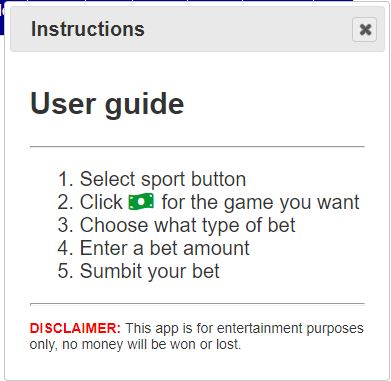
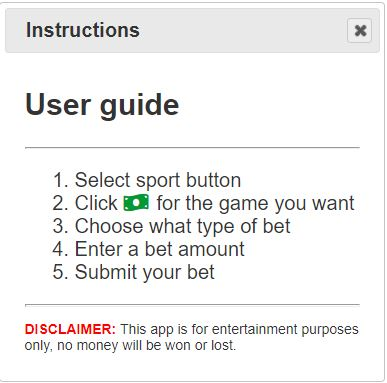
Updated Read Me

diff --git a/index.html b/index.html
@@ -148,7 +148,7 @@
         </li>
         <li>Choose what type of bet</li>
         <li>Enter a bet amount</li>
-        <li>Sumbit your bet</li>
+        <li>Submit your bet</li>
       </ol>
       <hr />
       <p class="disclaimer">

diff --git a/README.md b/README.md
@@ -2,6 +2,12 @@
 
 ![homepage](assets/images/sports-header.jpg)
 
+**Description**
+
+ Sports Bets app is intended to be used for individuals interested in gambling. This is a safe application, free that allows users to practice live Gambling using “fake” money.
+
+ The motivation behind this app came from the increase of states allowing sports gambling. Besides that, all the devs on the application had some prior experience placing sports bets.
+
 ## 1⃣ Tasks
 
 ---
@@ -30,6 +36,20 @@ As a Sports fan I WANT an application that can provide sports gambling simulatio
 - WHEN I click on a save button
 - THEN my bet options are saved to local storage
 - WHEN I click to view the history, my previous bets are displayed
+
+
+**Technologies Used**
+```
+- Javascript
+- HTML
+- CSS
+- Pure CSS (Framework)
+- Moment (Date/Time Formatting)
+- JQueryUI (Modals)
+- Rapid API (Standings)
+- api-sports (Game odds for Hockey/Baseball/Basketball)
+
+```
 
 ## 📸 Screenshots
 
